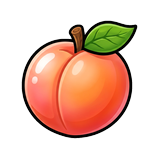
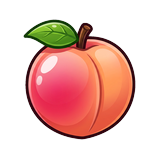
art: a pineapple, an orange and a banana join the fruit, and the peach is repainted
Eight fruits now: the five on the board plus three more, so a level can ask for six of them without
running out. PieceKind grows from 5 to 8 — the original values are untouched because they travel in
save data and in every level file, and the three new ids are additive. The level loader, the board's
board-string letters, the asset catalogue and the splash tints all know them, and levels 7 to 10 name
one of the new fruits each, which is the only reason to add a fruit: it has to be played.

The peach is repainted with a deep pink blush and no dashed cut-line around it.

Also extends the picture coverage test to all eight kinds, so a fruit added without a plate fails the
build instead of drawing nothing.

diff --git a/godot-port/tools/import_gem_art.py b/godot-port/tools/import_gem_art.py
@@ -36,6 +36,11 @@ SIZE = 160          # the plate every screen scales from
 PIECE_BOX = 132
 KEY_TOLERANCE = 26  # how near the field colour a pixel has to be to get filled
 
+# The eight fruits, by the id the game asks for. The first five kept their stone names when the pieces
+# turned into fruit — the ids travel in save data and in every level file, and renaming them would mean
+# rewriting the content to gain nothing the player can see.
+PIECES = ("firouzeh", "lajvard", "aqiq", "zomorrod", "morvarid", "ananas", "porteqal", "moz")
+
 
 def _field_colour(plate: Image.Image) -> tuple:
     """The colour the plate was painted on, read off its border.
@@ -130,7 +135,7 @@ def _centred(cut: Image.Image) -> Image.Image:
 
 
 def main() -> None:
-    for name in ("firouzeh", "lajvard", "aqiq", "zomorrod", "morvarid"):
+    for name in PIECES:
         source = os.path.join(SOURCE, name + ".png")
         piece = _centred(_keyed(source))
         path = os.path.join(OUT, "piece_%s.png" % name)
